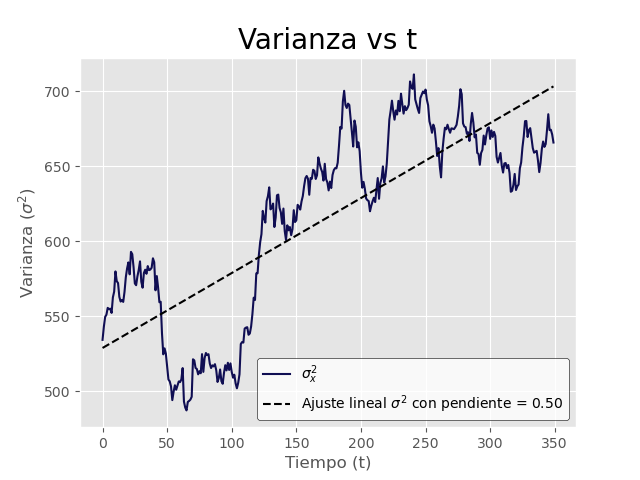
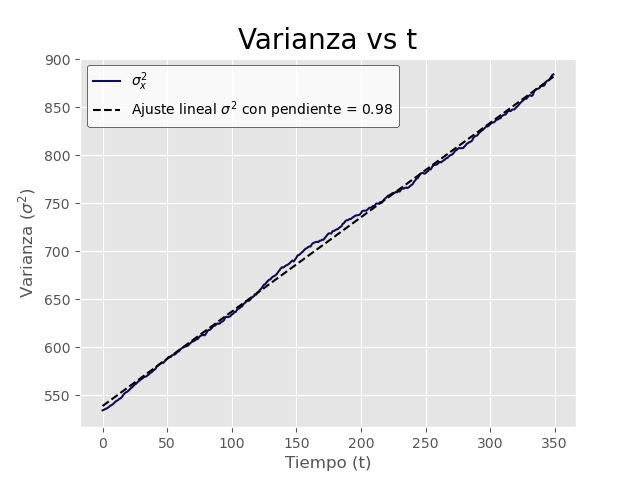
Fixed bug in point a

diff --git a/Talleres/Taller 2/Punto 3 CA/punto a/punto_a.cpp b/Talleres/Taller 2/Punto 3 CA/punto a/punto_a.cpp
@@ -5,6 +5,7 @@
 
 const int Lx=256, Ly=256;
 const double p0=0.25,p=0.25;
+const double pr = 1-2*p-p0;
 const int Q=4;
 const int N_automatas=1;
 
@@ -80,17 +81,18 @@ void LatticeGas::Colisione(Crandom & ran64){//Quede aquí  ---------------------
   double n_aleatorio;
   for(ix=0;ix<Lx;ix++){ //Recorriendo cada celda
     for(iy=0;iy<Ly;iy++){
-      for(i=0;i<Q;i++){       //Recorriendo cada dirección 
-      n_aleatorio = ran64.r();
-      //Se rota la celda 0 grados (quieta)
-      if(n_aleatorio<p0)n_new[ix][iy][i]=n[ix][iy][i];
-      //Se rota la celda 90 grados (derecha)
-      else if(n_aleatorio<p0+p)n_new[ix][iy][i]=n[ix][iy][(i+3)%Q];
-      //Se rota la celda 270 grados (izquierda)
-      else if(n_aleatorio<p0+2*p)n_new[ix][iy][i]=n[ix][iy][(i+1)%Q];
-      //Se rota la celda 180 grados (abajo)
-      else n_new[ix][iy][i]=n[ix][iy][(i+2)%Q];
-      }
+             //Recorriendo cada dirección 
+    n_aleatorio = ran64.r();
+    // Se rota la celda 0 grados (quieta)
+    if(n_aleatorio<p0) for(i=0;i<Q;i++) n_new[ix][iy][i]=n[ix][iy][i];
+    //Se rota la celda 90 grados (derecha)
+    else if(n_aleatorio<p0+p) for(i=0;i<Q;i++) n_new[ix][iy][i]=n[ix][iy][(i+3)%Q];
+    //Se rota la celda 270 grados (izquierda)
+    else if(n_aleatorio<p0+2*p) for(i=0;i<Q;i++) n_new[ix][iy][i]=n[ix][iy][(i+1)%Q];
+    //Se rota la celda 180 grados (abajo)
+    else for(i=0;i<Q;i++) n_new[ix][iy][i]=n[ix][iy][(i+2)%Q];
+
+      
     }
   }
 }
@@ -100,10 +102,10 @@ void LatticeGas::Adveccione(void){
     for(ix=0;ix<Lx;ix++){//Para cada celda 
       for(iy=0;iy<Ly;iy++){
         for(i=0;i<Q;i++){ //Y en cada dirección 
-        if (i == 2 || i == 0)//Derecha e izquierda
-            n[(ix+V[i]+Lx)%Lx][iy][i]=n_new[ix][iy][i];   
-        else //Arriba y abajo
-            n[ix][(iy+V[i]+Lx)%Lx][i]=n_new[ix][iy][i];
+          if (i == 2 || i == 0)//Derecha e izquierda
+              n[(ix+V[i]+Lx)%Lx][iy][i]=n_new[ix][iy][i];   
+          else //Arriba y abajo
+              n[ix][(iy+V[i]+Ly)%Ly][i]=n_new[ix][iy][i];
         }
       } 
     }
@@ -124,9 +126,12 @@ tuple<double, double, double> Sigma2(LatticeGas * Difusion){
         N+=Difusion[iautomata].rho(ix,iy,UseNew);
         xprom+=ix*Difusion[iautomata].rho(ix,iy,UseNew);
         yprom+=iy*Difusion[iautomata].rho(ix,iy,UseNew);
-       } } }
-  clog<<"N: "<<N<<endl;
+       }
+     } 
+     if (N==0){break;}
+  }
   // N = 2400;
+  clog<<"N: "<<N<<endl;
   //Calcular la posición promedio
   xprom/=N;  yprom/=N;
   //Calcular la varianza promedio
@@ -155,7 +160,7 @@ int main(void){
 
   for (int i = 0; i < N_automatas; i++) Difusion[i].Borrese();
   for (int i = 0; i < N_automatas; i++) Difusion[i].Inicie(N_par, mu_xi, mu_yi, sigma_xi, sigma_yi, ran64);
-
+  
   for(int t=0;t<tmax;t++){
     double sigma_x, sigma_y, sigma2;
     std::tie(sigma_x, sigma_y,sigma2) = Sigma2(Difusion);
